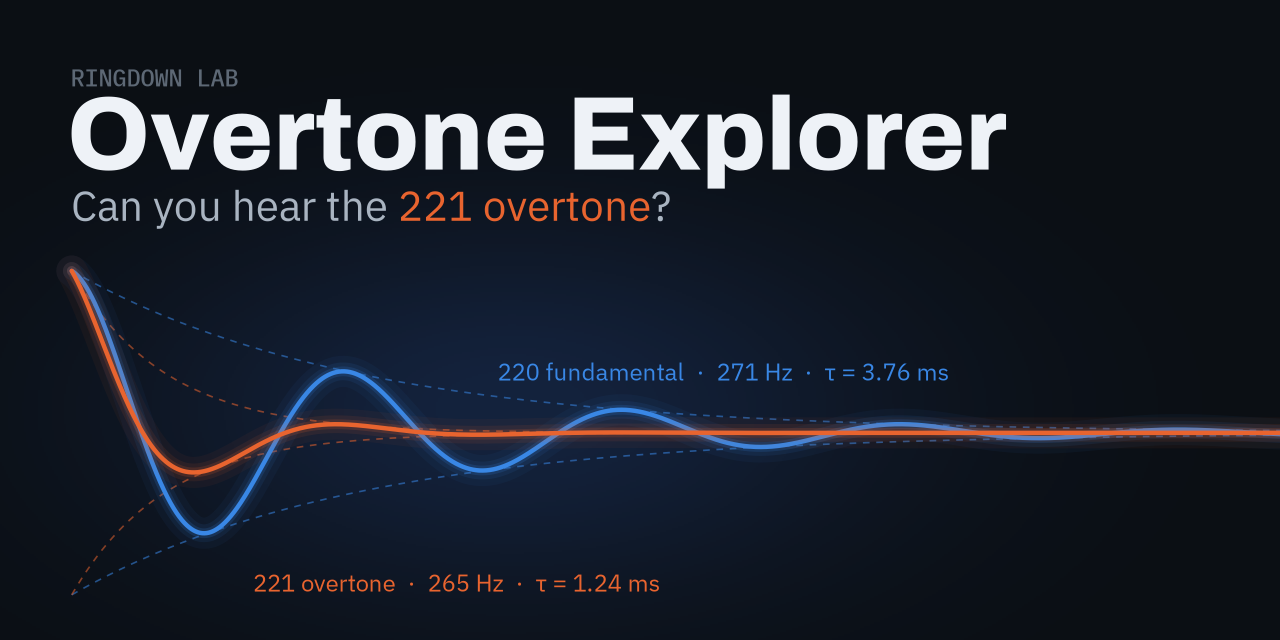
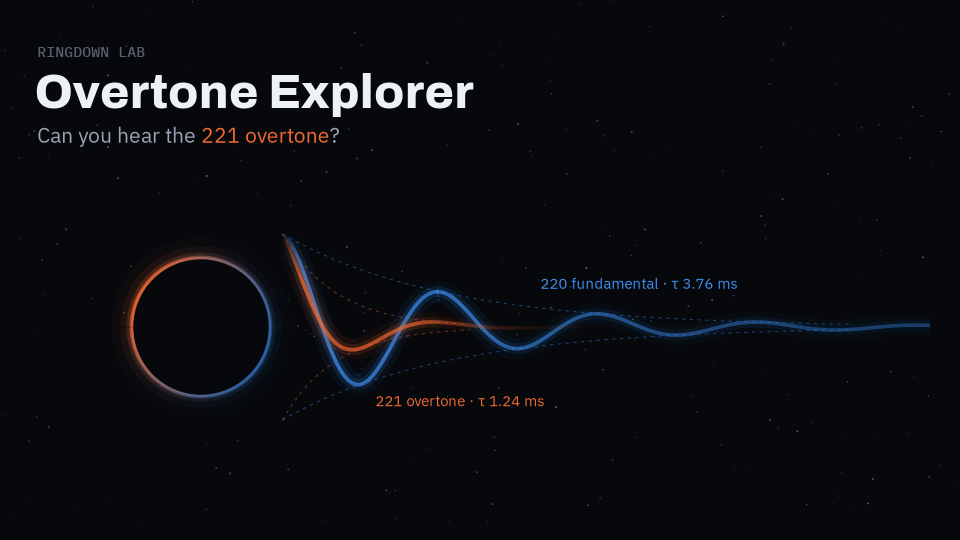
New 16:9 thumbnail

diff --git a/index.html b/index.html
@@ -8,8 +8,8 @@
 <meta property="og:type" content="website">
 <meta property="og:url" content="https://leonardoperugia09-cyber.github.io/overtone-explorer/">
 <meta property="og:image" content="https://leonardoperugia09-cyber.github.io/overtone-explorer/thumbnail.png">
-<meta property="og:image:width" content="1280">
-<meta property="og:image:height" content="640">
+<meta property="og:image:width" content="960">
+<meta property="og:image:height" content="540">
 <meta name="twitter:card" content="summary_large_image">
 <link rel="preconnect" href="https://fonts.googleapis.com">
 <link rel="stylesheet" href="https://fonts.googleapis.com/css2?family=Archivo:wdth,wght@75..100,500..800&family=IBM+Plex+Mono:wght@400;500&family=IBM+Plex+Sans:ital,wght@0,400;0,500;0,600;1,400&display=swap">
